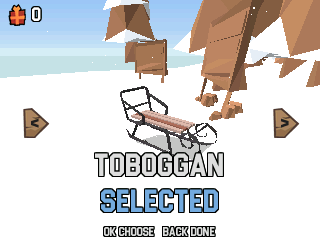
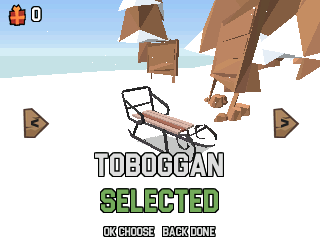
Snow Rider 3D: SELECTED in the game's green
Its colour was one bit off and showed blue.

diff --git a/games/snowrider/src/draw.c b/games/snowrider/src/draw.c
@@ -287,7 +287,7 @@ static void snow_project(void) {
 /* ---------------------------------------------------------------- the game's own interface (ui.c) */
 #define UI_GREY 0xDEFB      /* (223, 223, 223): its lettering */
 #define UI_YELLOW 0xFE60    /* (255, 206, 0): BUY */
-#define UI_GREEN 0x755B     /* (118, 171, 93): SELECTED */
+#define UI_GREEN 0x754B     /* (118, 171, 93): SELECTED */
 #define UI_LIME 0xE7E0      /* (231, 255, 0): TAP TO RESTART */
 static void ui_pic(int pic, int x, int y) {
   const UiPic *p = &ui_pics[pic];
